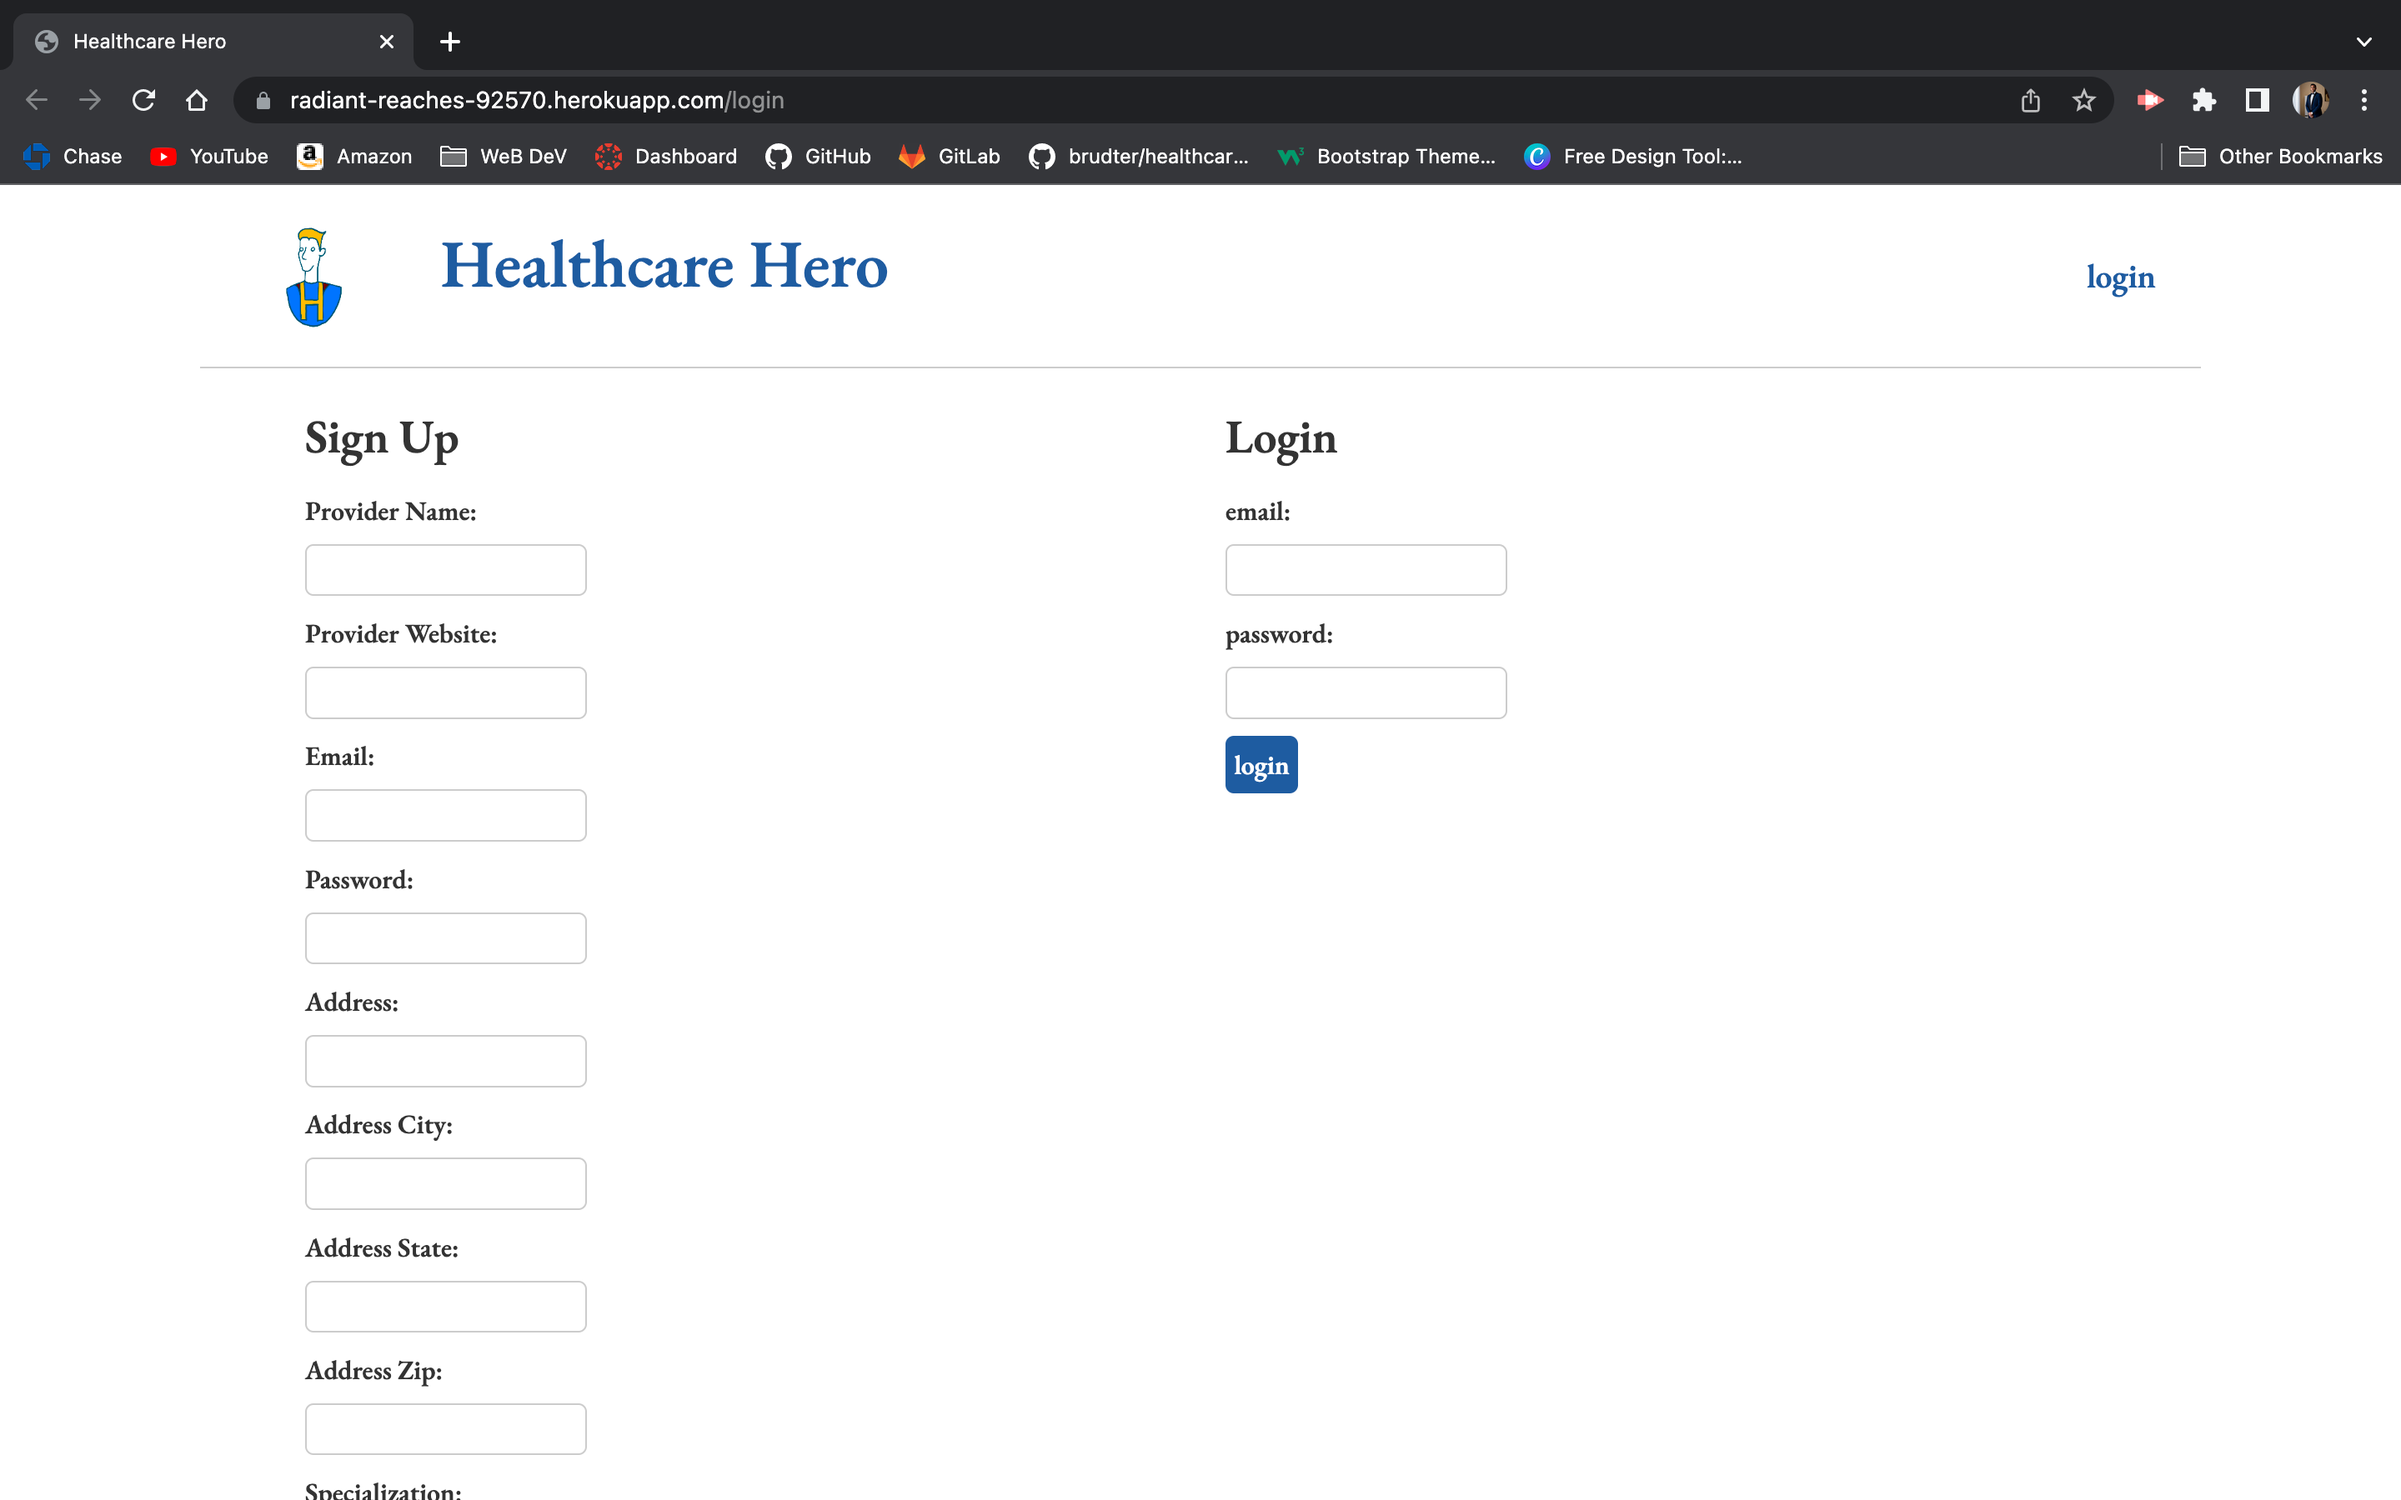
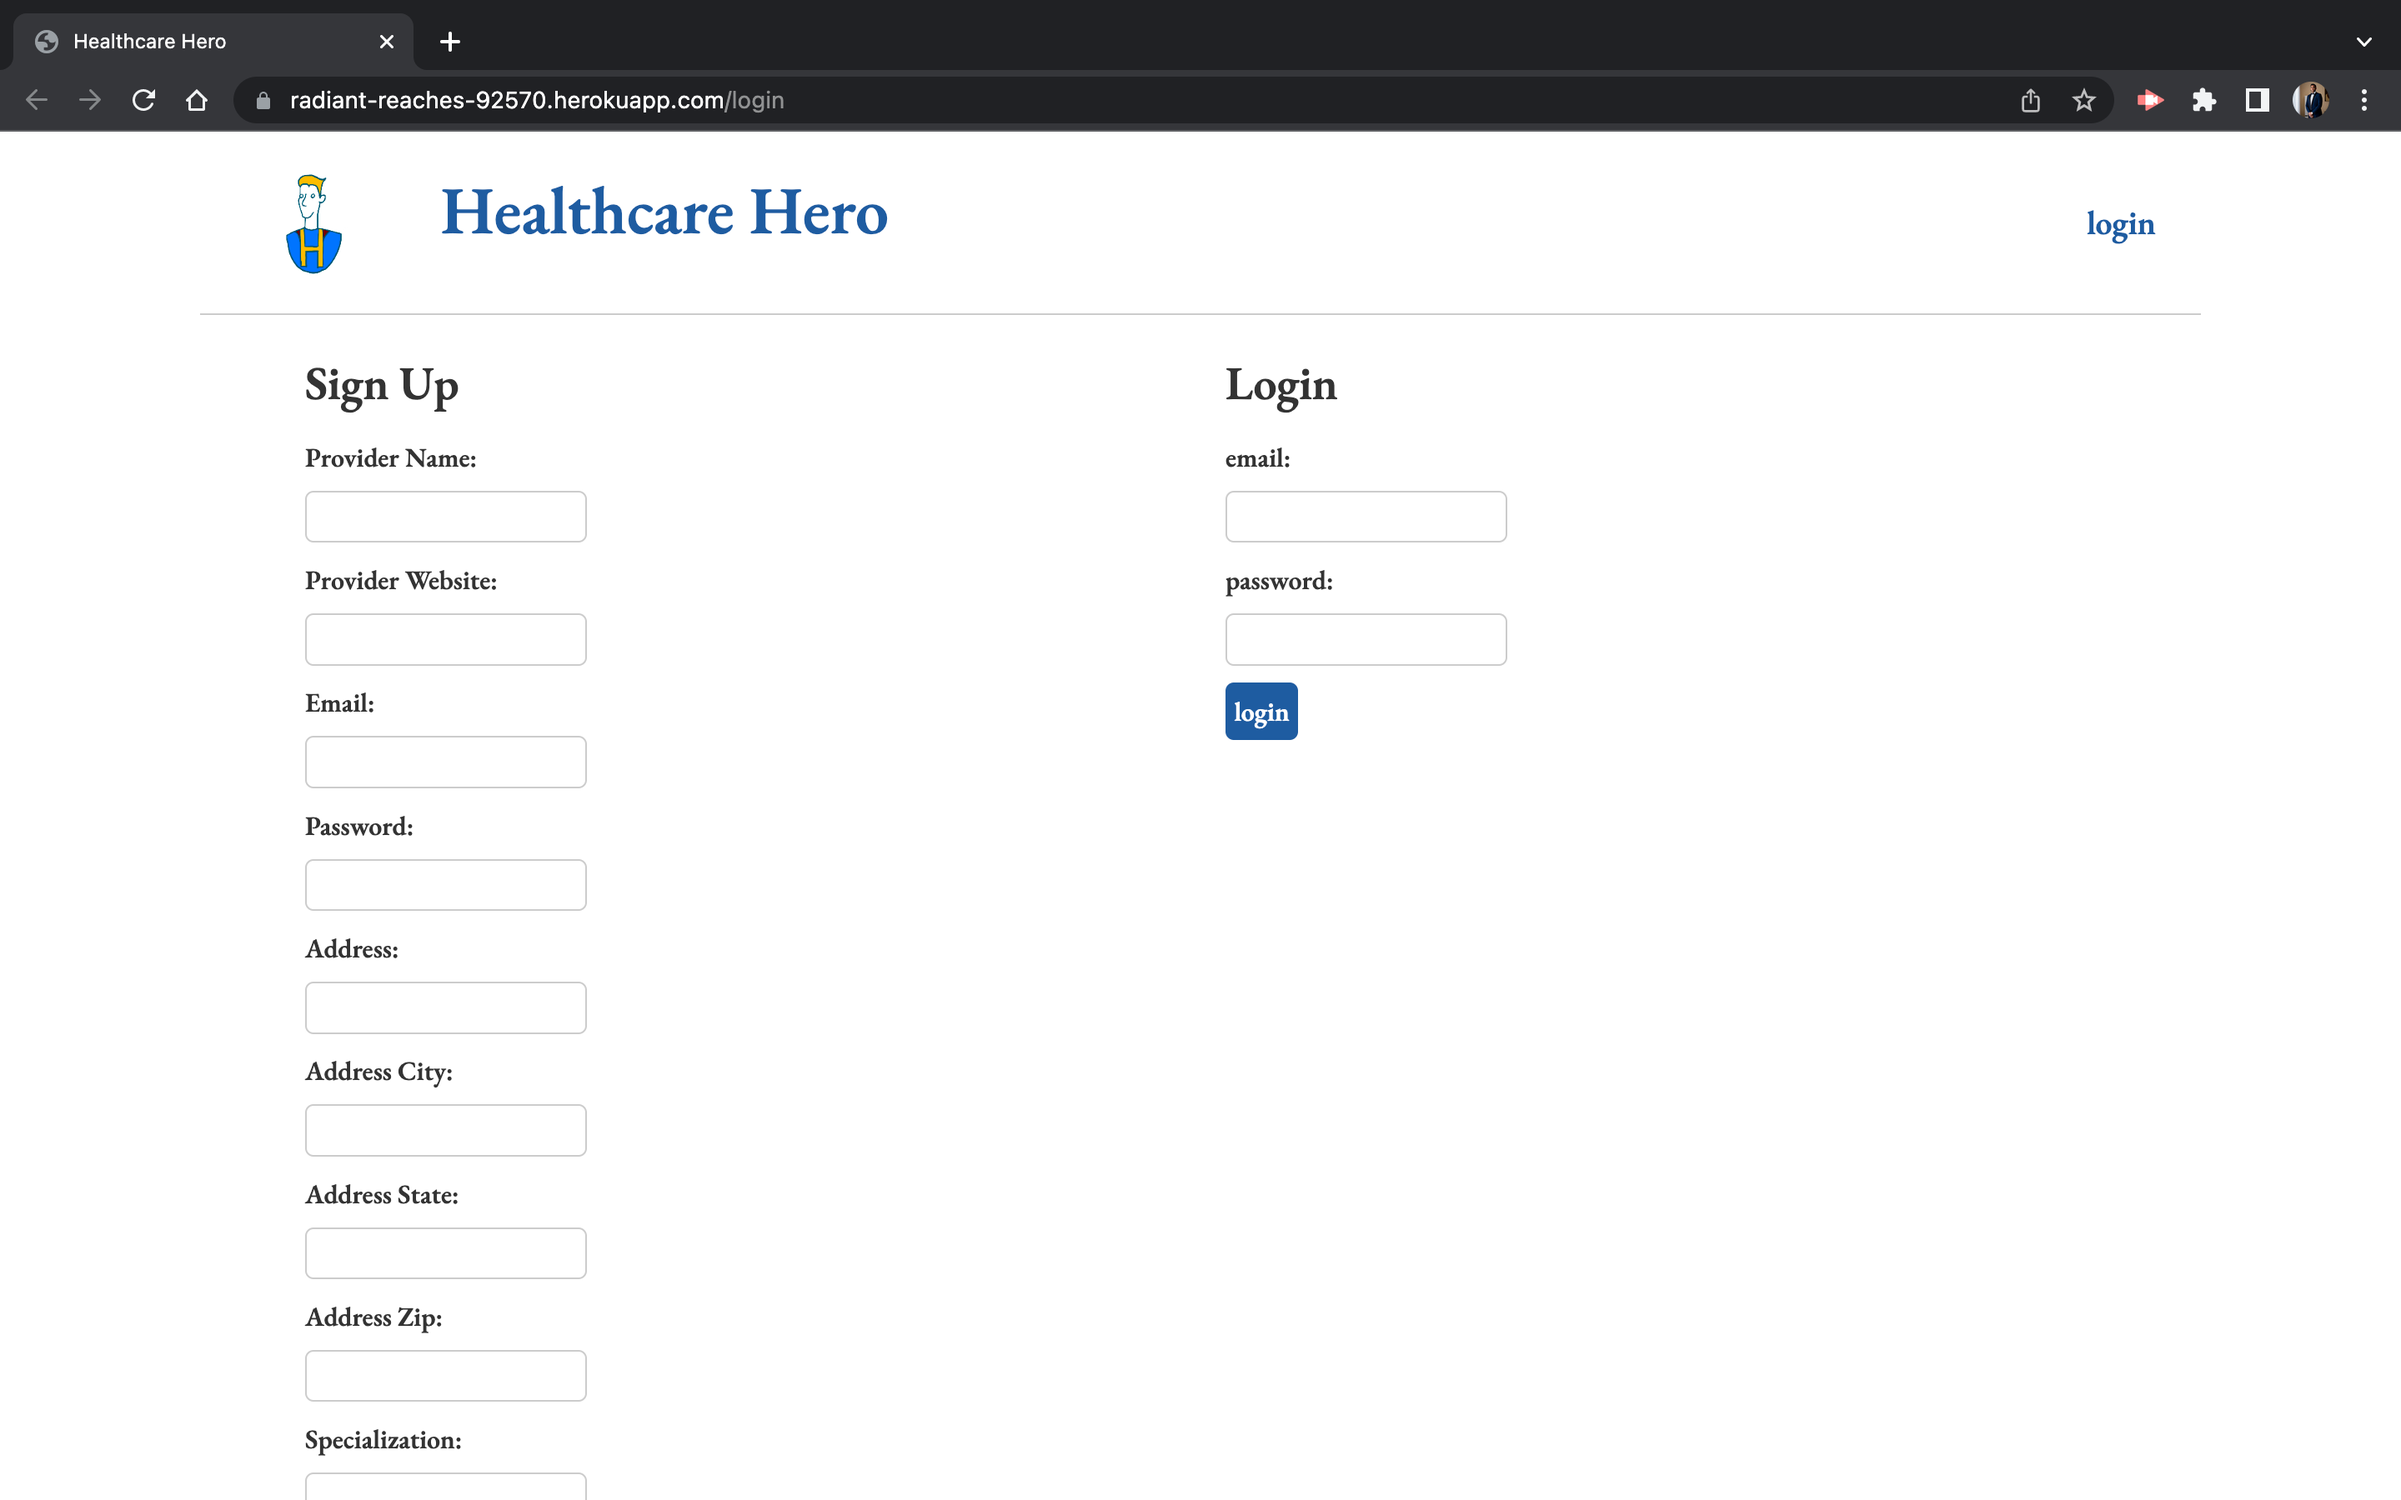
updated screenshots in readme

diff --git a/README.md b/README.md
@@ -10,7 +10,9 @@ After creating a repository called healthcare-hero on GitHub, index javascript f
 Pricing for medical services are usually hidden from the public. This app helps make the patient-provider relationship be more transparent. HealthCare used prospective patients searching for a medical service and cost associated with that service prior to making an appointment with a medical provider. It allows for patients to get a general understanding of how much a medical service will cost.
 
 ## Screenshots
-![alt text](./screenshots/Loginpage.png)
+
+![alt text](./screenshots/LoginPage.png
+![alt text](./screenshots/homepage.png)
 
 
 ## Link to HealthCare Hero
